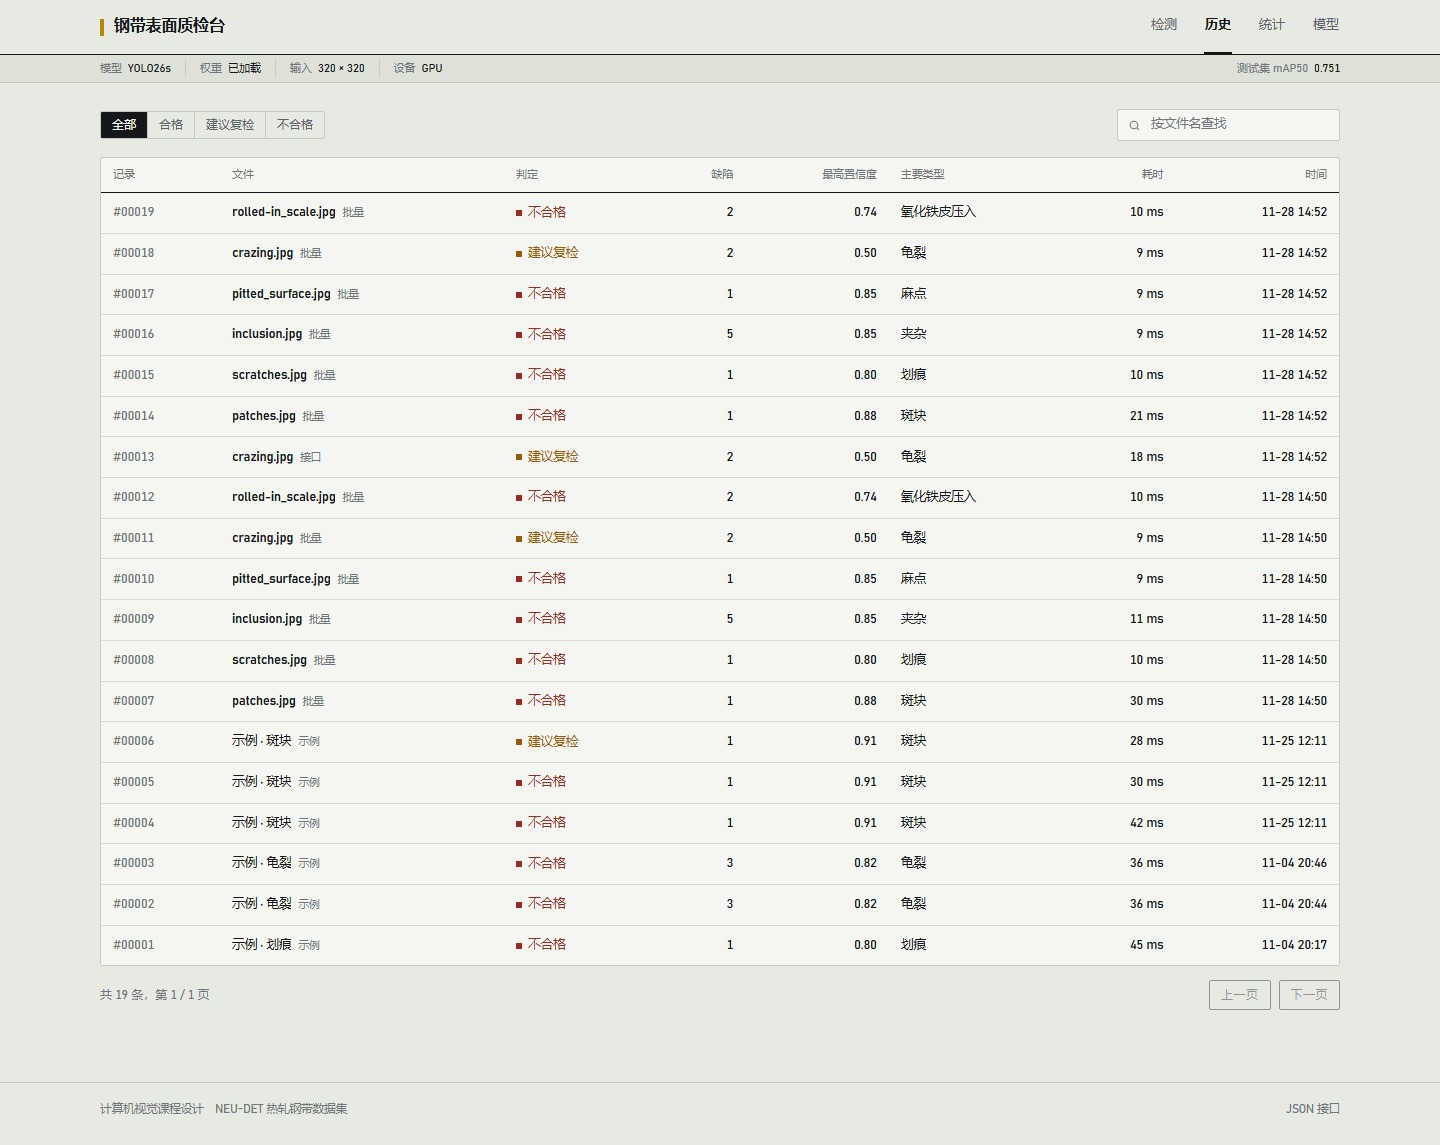
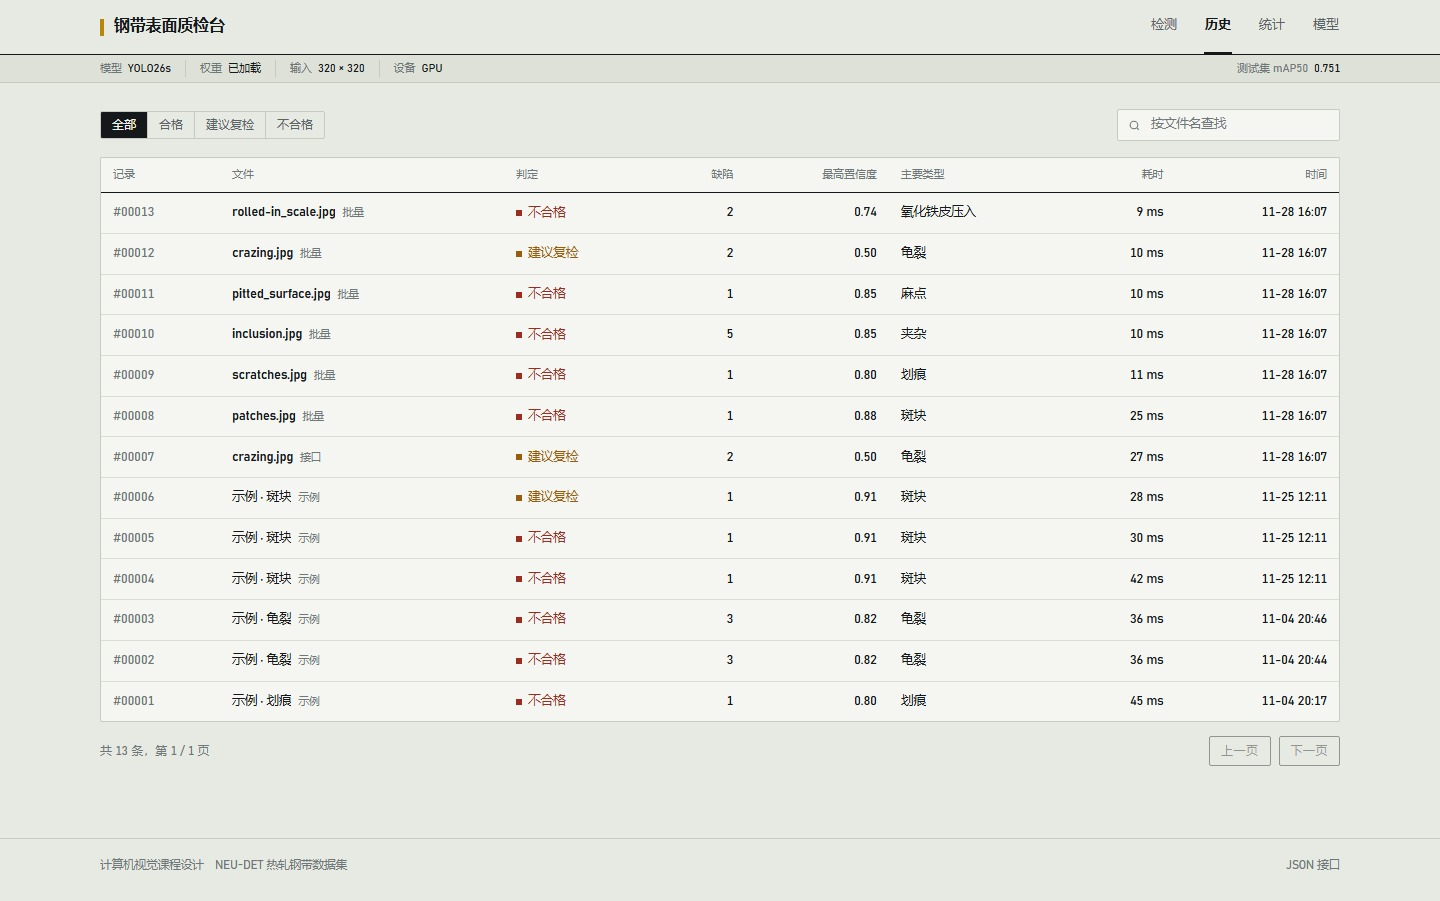
fix: 修正模型信息页和文档里与实验数据不符的说法，重拍系统截图
- 模型信息页：龟裂的难点是 2520 个背景误报而非“漏检来源”；
  “六类都高于另外两个模型”改为与 3 seed 逐类数据一致的表述；
  补充“名次稳定而非差距显著”的限定
- 对比实验不再称作“seed 0”：它和 3 seed 重训里的 seed 0 不是同一次训练
- comparison.md 结论第 4 条与第 1 条矛盾，改为按 3 次重复的 Recall 说明
- README：鲁棒性条件数说明（15 组扰动 + clean）
- 重拍 7 张系统截图并更新两张拼图

diff --git a/static/app/app.js b/static/app/app.js
@@ -880,7 +880,7 @@ async function renderModel(token) {
         </tr></thead>
         <tbody>${cls}</tbody>
       </table>
-      <p class="tbl-note">龟裂是细密网状微裂纹，在 200×200 灰度图上与轧制纹理高度相似，是 NEU-DET 公认最难的一类，也是本系统主要的漏检来源。</p>
+      <p class="tbl-note">龟裂是细密网状微裂纹，在 200×200 灰度图上与轧制纹理高度相似，是 NEU-DET 公认最难的一类。测试集 64 个龟裂框有 63 个被检出且类别正确，难点不在认错类别，而在于另有 2520 个背景区域被判成龟裂，正确的框排不到前面。</p>
     </section>
 
     <section class="block" style="margin-bottom:18px">
@@ -896,7 +896,7 @@ async function renderModel(token) {
         </tr></thead>
         <tbody>${cmp}</tbody>
       </table>
-      <p class="tbl-note">单次训练的三行来自云端 RTX 4090 的同协议批次（seed 0），与当前部署权重不是同一次训练；部署权重在本机 RTX 4060 上训练，测试集 mAP50 为 ${T.mAP50.toFixed(3)}。单看一次训练，三个模型的 mAP50 差距只有 1–3 个百分点。</p>
+      <p class="tbl-note">单次训练的三行来自云端 RTX 4090 的第一批对比实验，与下面 3 seed 重训里的 seed 0、以及当前部署权重都不是同一次训练；部署权重在本机 RTX 4060 上训练，测试集 mAP50 为 ${T.mAP50.toFixed(3)}。单看一次训练，三个模型的 mAP50 差距只有 1–3 个百分点。</p>
       <table class="grid" style="margin-top:12px">
         <thead><tr>
           <th>3 个随机种子的均值 ± 标准差</th><th class="num" style="text-align:right">mAP50</th>
@@ -906,7 +906,7 @@ async function renderModel(token) {
         </tr></thead>
         <tbody>${sw}</tbody>
       </table>
-      <p class="tbl-note">把每个模型重复训练 3 次（seed 0/1/2）后，YOLO26s 三次都是第一，六类缺陷的逐类 mAP50 也都高于另外两个模型；参数量和权重体积与 YOLO11s 相当（9.95 M / 20.3 MB 对 9.43 M / 19.2 MB）。因此选 YOLO26s 作为部署模型。YOLOv8s 的 Recall 略高，如果漏检的代价远大于误检，它也值得考虑。</p>
+      <p class="tbl-note">把每个模型重复训练 3 次（seed 0/1/2）后，YOLO26s 三次都是第一；逐类平均 mAP50 六类都不低于 YOLO11s（斑块持平），和 YOLOv8s 相比五类更高（龟裂基本持平）、只有氧化铁皮压入更低。参数量和权重体积与 YOLO11s 相当（9.95 M / 20.3 MB 对 9.43 M / 19.2 MB），因此选 YOLO26s 作为部署模型。它领先 YOLOv8s 只有 0.009，小于各自的波动，结论是名次稳定而不是差距显著；YOLOv8s 的 Recall 略高，如果漏检的代价远大于误检，它也值得考虑。</p>
     </section>
 
     <div class="model-grid">

diff --git a/model_meta.py b/model_meta.py
@@ -4,7 +4,8 @@
 重新训练后只需要改这一个文件，前端各页面自动跟着变。
 部署权重（best.pt）：YOLO26s，2026-11-28 在本机 RTX 4060 Laptop 上训练
 （150 轮上限，第 83 轮最佳，第 113 轮早停）；指标为该权重在测试集（180 张 / 420 框）上的实测值。
-对比实验的三行来自云端 RTX 4090 的同协议批次（seed 0），与部署权重不是同一次训练。
+对比实验的三行来自云端 RTX 4090 的第一批对比实验（单次训练），
+和 SEED_SWEEP 里的 seed 0、以及部署权重都不是同一次训练。
 """
 
 MODEL = {
@@ -57,7 +58,7 @@ PER_CLASS = [
     {"name": "scratches", "zh": "划痕", "map50": 0.951, "p": 0.743, "r": 0.942},
 ]
 
-# 对比实验（同一套超参，只换骨干；云端 RTX 4090，seed 0，单次训练）
+# 对比实验（同一套超参，只换骨干；云端 RTX 4090，第一批单次训练，见上方说明）
 COMPARE = [
     {"model": "YOLOv8s", "params_m": 11.14, "size_mb": 22.5,
      "map50": 0.768, "map50_95": 0.429, "p": 0.718, "r": 0.735},

diff --git a/01_程序源码/steel-defect-yolo/docs/training/comparison.md b/01_程序源码/steel-defect-yolo/docs/training/comparison.md
@@ -30,21 +30,22 @@ GPU: RTX 4090 24GB
 
 ## 结论
 
-1. **三者差距在 1~3 个百分点，属于同一水平的正常波动**。150 轮、1400 张图的规模下，
-   单次训练的随机性本身就接近这个量级，不能据此断言某个版本"更好"。
-   要写进报告的话，建议表述为"性能相当，差异在训练噪声范围内"。
+0. **单次训练的差距（1~3 个百分点）和训练随机性是同一量级**，单看这张表不能断言哪个版本更好。
+   结论以 `seed_sweep/seed_sweep.md` 的 3 次重复为准：mAP50 均值 YOLOv8s 0.756、YOLO11s 0.744、YOLO26s 0.765，
+   三次重复中名次完全一致。
 
-2. **YOLO11s 参数最少（9.43 M）**，比 YOLOv8s 少 15%，mAP50 只低 0.028。
-   但种子重复实验（3 次）中 YOLO26s 的 mAP50 均值最高（0.765 对 0.744），六类 AP50 都不低于 YOLO11s，
-   而参数量只多 0.52 M、权重只大 1.1 MB，所以本项目最终部署 YOLO26s。
+1. **部署选用 YOLO26s**：3 次重复的 mAP50 最高，六类 AP50 在配对比较中都不低于 YOLO11s；
+   参数量 9.95 M，权重 20.3 MB，比 YOLO11s 只多 0.52 M 和 1.1 MB，CPU 延迟差别在波动范围内。
+   （本文件是云端第一批对比实验的单次训练结果，和 `seed_sweep` 里的 seed 0 不是同一次训练，
+   所以两处的数字不同；部署权重的指标见 `test_set_metrics.json`。）
 
 3. **龟裂（crazing）是所有模型共同的短板**（0.26~0.41）。这类缺陷是细密网状微裂纹，
    在 200×200 灰度图里几乎和轧制纹理融在一起，是 NEU-DET 公认最难的一类。
    报告里可以作为"局限性分析"：实际产线需要更高分辨率成像或专门的小目标分支。
 
-4. **YOLO26s 的 Precision 最高（0.755）但 Recall 最低（0.703）**。工业质检里漏检代价远大于
-   误检，所以即使它 mAP50-95 略高，也不一定是最优选择——这一点可以在报告的"模型选型"
-   一节展开讨论。
+4. **只看本表这一次训练，YOLO26s 的 Precision 最高（0.755）但 Recall 最低（0.703）**。工业质检里漏检代价远大于
+   误检，所以单凭这一张表不能下选型结论。按 3 次重复，YOLO26s 的平均 Recall 为 0.718，高于 YOLO11s 的 0.710，
+   低于 YOLOv8s 的 0.735；这一点在报告的"三模型对比与选型"一节有说明。
 
 ## 复现命令
 

diff --git a/04_训练结果/comparison.md b/04_训练结果/comparison.md
@@ -36,15 +36,16 @@ GPU: RTX 4090 24GB
 
 1. **部署选用 YOLO26s**：3 次重复的 mAP50 最高，六类 AP50 在配对比较中都不低于 YOLO11s；
    参数量 9.95 M，权重 20.3 MB，比 YOLO11s 只多 0.52 M 和 1.1 MB，CPU 延迟差别在波动范围内。
-   （本文件是云端 seed 0 的单次结果；部署权重的指标见 `test_set_metrics.json`。）
+   （本文件是云端第一批对比实验的单次训练结果，和 `seed_sweep` 里的 seed 0 不是同一次训练，
+   所以两处的数字不同；部署权重的指标见 `test_set_metrics.json`。）
 
 3. **龟裂（crazing）是所有模型共同的短板**（0.26~0.41）。这类缺陷是细密网状微裂纹，
    在 200×200 灰度图里几乎和轧制纹理融在一起，是 NEU-DET 公认最难的一类。
    报告里可以作为"局限性分析"：实际产线需要更高分辨率成像或专门的小目标分支。
 
-4. **YOLO26s 的 Precision 最高（0.755）但 Recall 最低（0.703）**。工业质检里漏检代价远大于
-   误检，所以即使它 mAP50-95 略高，也不一定是最优选择——这一点可以在报告的"模型选型"
-   一节展开讨论。
+4. **只看本表这一次训练，YOLO26s 的 Precision 最高（0.755）但 Recall 最低（0.703）**。工业质检里漏检代价远大于
+   误检，所以单凭这一张表不能下选型结论。按 3 次重复，YOLO26s 的平均 Recall 为 0.718，高于 YOLO11s 的 0.710，
+   低于 YOLOv8s 的 0.735；这一点在报告的"三模型对比与选型"一节有说明。
 
 ## 复现命令
 

diff --git a/README.md b/README.md
@@ -153,8 +153,8 @@ bash cloud/robustness.sh
 
 ### 鲁棒性压力测试
 
-固定 seed 0 的三个权重，只对测试图像施加扰动，标注、输入尺寸和评估脚本不变：
-5 类扰动 × 3 个严重度，共 16 组条件。完整数据、热力图和曲线见
+固定云端 seed 0 的三个权重（不是部署权重），只对测试图像施加扰动，标注、输入尺寸和评估脚本不变：
+5 类扰动 × 3 个严重度共 15 组，加上 clean 基线共 16 组条件。完整数据、热力图和曲线见
 [`04_训练结果/robustness/`](04_训练结果/robustness/)。
 
 - 亮度变化影响最轻：最暗一档 mAP50 只下降 1.1%~5.5%。
